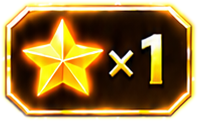
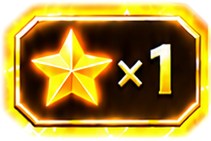
Nhiệm vụ tuần: ô sao sáng cắt rộng hơn, đủ quầng quanh khung
Claude-Session: https://claude.ai/code/session_01Nx6KtzZ6oiLptec8PbUBY6

diff --git a/src/lib/weekly-geo.ts b/src/lib/weekly-geo.ts
@@ -15,13 +15,13 @@ export const WEEK_GEO: Record<"p" | "g" | "d", WeekRow[]> = {
     {star: [86.33, 52.33], starW: 23.7, starH: 70.35, tube: [70.93, 84.3], fill: [40.36, 69.53], num: [29.69]},
   ],
   g: [
-    {star: [84.96, 50.0], starW: 24.72, starH: 75.16, digit: [49.94, 46.58, 14.91]},
-    {star: [84.96, 50.0], starW: 24.72, starH: 75.16, digit: [49.94, 46.27, 15.53]},
-    {star: [84.96, 50.0], starW: 24.72, starH: 78.06},
-    {star: [84.96, 50.0], starW: 24.72, starH: 78.57},
-    {star: [84.96, 50.0], starW: 24.72, starH: 78.57},
-    {star: [84.96, 50.0], starW: 24.72, starH: 79.08},
-    {star: [84.96, 50.0], starW: 24.72, starH: 74.69},
+    {star: [84.71, 50.31], starW: 26.34, starH: 75.16, digit: [49.94, 46.58, 14.91]},
+    {star: [84.71, 50.31], starW: 26.34, starH: 75.16, digit: [49.94, 46.27, 15.53]},
+    {star: [84.71, 50.32], starW: 26.34, starH: 78.06},
+    {star: [84.71, 50.32], starW: 26.34, starH: 78.57},
+    {star: [84.71, 50.32], starW: 26.34, starH: 78.57},
+    {star: [84.71, 50.33], starW: 26.34, starH: 79.08},
+    {star: [84.71, 50.31], starW: 26.34, starH: 74.69},
   ],
   d: [
     {star: [86.42, 51.89], starW: 23.54, starH: 76.1, digit: [50.78, 45.6, 15.72]},

diff --git a/src/lib/updates.ts b/src/lib/updates.ts
@@ -905,6 +905,7 @@ export const PENDING_NOTES: string[] = [
   "Nhiệm vụ Ngày hiện 3 trạng thái: xanh dương khi đang làm, vàng khi đủ để nhận, xanh lá khi đã nhận. Bấm ô sao ở hàng vàng để nhận thưởng.",
   "Nhiệm vụ Tuần cũng có 3 trạng thái: tím khi đang làm, vàng khi đủ để nhận, xanh lá khi đã nhận. Nhiệm vụ xếp hạng (X3) nhận xong đếm lại, còn X2 rồi X1.",
   "Nhiệm vụ Tuần: Sử dụng 1 bảo vật và Thu thập 10 lá bài thưởng 1 sao, các nhiệm vụ còn lại 2 sao. Hàng vàng dùng ảnh mới, ống đúng cỡ và ô sao sáng không còn viền đen.",
+  "Ô sao sáng của nhiệm vụ Tuần có đủ quầng sáng quanh khung, hoà vào khung hàng.",
 ];
 
 function remarkOf(notes: string[]) {

diff --git a/TIEP-TUC.md b/TIEP-TUC.md
@@ -708,3 +708,4 @@ Chủ game trả lời (29/10), CHƯA LÀM gì, chờ "ok" và trả lời câu 
 - NHIỆM VỤ TUẦN 3 TRẠNG THÁI 05/11 (Sonnet 5.5 high, nhánh `ccr-4a6b9076-s9p3aq`, CHƯA áp `main`, chờ chủ game xem ảnh): chủ game gửi 8 ảnh + 1 ảnh canh ô sao (`8d74ff4d`, trang tím có ô sao ×2). Cắt nguyên hàng từ 3 trang: tím `806d0c73` (ống rỗng + viên số), vàng `f29e61a6`, xanh lá `ff633a98` → `public/ui/mission/w-p0..6`, `w-g0..6`, `w-d0..6` (900×196, tâm hàng đo bằng viền thẳng trái/phải như tab Ngày). Chỉ xoá: chữ số trong viên "0 / n" (trang tím) và chữ "3" của "(X3)" ở 2 hàng đầu (cả 3 trang; tô nền bằng mảnh nền bên phải ")" chỉnh màu); tên nhiệm vụ giữ nguyên trong ảnh. Ô sao ×2: `wk-star.webp` (ảnh `f23d561a`, nền trong), `wk-glow.webp` (ô sáng, ảnh `259fe00b`) đặt theo vị trí đo bằng so khớp mẫu trên `8d74ff4d`; phần đầy ống `wk-fill.webp` cắt từ ảnh ống dài `58256899` (lõi tím), `border-image` 3 phần. Toạ độ % khung từng hàng ở `src/lib/weekly-geo.ts`. `WeeklyCard` (missions.tsx): tím (ống + "n / mục tiêu" Roboto Condensed 4,05cqw + ô sao thường), vàng (nút ô sáng, bấm nhận: coin + done + Burst + "+2★"), xanh lá; chữ số "(Xn)" code vẽ đè (Roboto Condensed, cỡ theo chữ "3" gốc). Luật hiển thị chủ game chốt: nhận xong hiện xanh lá 1,3 giây rồi về tím với X2 → X1, tiến độ về 0; nhận lần 3 xanh lá hẳn và ghi (X0). `daily-missions.ts` `useWeekly` (kho `clash-missions-w1` {start, done, claims}, tuần 7 ngày từ lúc bắt đầu, `claim`), `mission-list.ts` WEEKLY_LIST mới 7 hàng + `repeat`. CHỈ ĐỌC + NHẬN; việc ghi tiến độ (trận xếp hạng, bảo vật, thu thập lá), reset tuần thật, bảng sau trận = Opus 5.5 high, CHƯA LÀM. Thử Chromium 412×915 (`/tmp/claude-0/s/t/wk.cjs`): tím 14/15, vàng, bấm nhận → xanh lá → về tím X2, toàn xanh lá X0. Còn lại: vết tô nền của chữ "3" ở trang vàng còn thấy nhẹ khi phóng to.
 - CANH Ô SAO SÁNG HÀNG VÀNG TUẦN 05/11 (Sonnet 5.5 high, nhánh `ccr-4a6b9076-s9p3aq`, CHƯA áp `main`): so khớp ô sáng với ảnh chủ game đặt sẵn (`16657b70`): tâm x≈704 (trang), lệch dọc 0–2,5 px theo hàng, rộng ≈216 px; `weekly-geo.ts` hàng `g` (starW = rộng ô sáng, hệ số 1.0 trong `WeeklyCard`). Chụp 412×915 khớp khung.
 - TUẦN: ẢNH MỚI + Ô SAO SÁNG HẾT VIỀN ĐEN + 1 SAO 05/11 (chủ game gửi 2 ảnh và "Ok duyệt"; Sonnet 5.5 high, nhánh `ccr-4a6b9076-s9p3aq`, CHƯA áp `main`): `5413e548` = trang vàng MỚI (ống đúng cỡ, không đè ô sao), `5eb7b31b` = ô sáng ×1…×7 đặt sẵn trên nền hàng vàng (không nền đen). Làm: `public/ui/mission/w-g0..6.webp` cắt lại từ trang mới (tâm hàng đo bằng viền trái x=35: 545,5 / 705,5 / 861,5 / 1015 / 1167 / 1318,5 / 1474; `XR` 24..825, `M` 24), xoá lại chữ "3" của (X3) (hộp g0 418..430 × 528..552, g1 418..430 × 687..712); `wk-glow1.webp` / `wk-glow2.webp` = ô sáng ×1 / ×2 cắt từ `5eb7b31b` kèm nền vàng quanh ô (mặt nạ bát giác + mép mờ 1,6 px, không còn quầng đen), tâm ô = tâm hàng, x 704,5, rộng 198 px trang; xoá `wk-glow.webp` cũ; `wk-star1.webp` = ô thường ×1 (từ `441c0418`, co về cỡ ô ×2) cho hàng tím. LUẬT: `w-relic1` (Sử dụng 1 bảo vật) và `w-cards10` (Thu thập 10 lá bài) thưởng 1 sao, 5 hàng còn lại 2 sao (`mission-list.ts`), ô sao và chữ "+n★" theo `row.stars`. Thử Chromium 412×915 (`/tmp/claude-0/s/t/wk.cjs`): tím và vàng khớp khung, ×1 / ×2 đúng hàng. Tập lệnh làm ảnh: scratchpad `/tmp/claude-0/s/w/gold3.py`, `geo.py`. BẢNG ẢNH ĐÃ NHẬN CHO TAB TUẦN (thư mục `/root/.claude/uploads/713e3384-…/`): `806d0c73` trang tím rỗng, `8002608e` ống tím ngắn, `58256899` ống tím dài, `f29e61a6` trang vàng CŨ (bỏ), `5413e548` trang vàng MỚI, `ff633a98` trang xanh lá, `259fe00b` ô sáng ×1–8 nền đen cỡ lớn (bỏ), `23e1ed97` ô sáng ×1–8 nền đen cỡ khớp (bỏ), `5eb7b31b` ô sáng ×1–7 trên hàng vàng (dùng), `441c0418` ô thường ×1–7, `f23d561a` ô thường ×2, `8d74ff4d` canh ô thường (trang tím), `16657b70` canh ô sáng ×1, `e3b7b5f0` trang vàng không ô sao. Còn lại: Opus 5.5 high (đếm trận thật, reset tuần thật, bảng sau trận), chờ "ok".
+- Ô SAO SÁNG TUẦN: QUẦNG ĐỦ HƠN 05/11 (chủ game: "quầng sáng của khung sao chưa đủ do bạn cắt sát quá"; Sonnet 5.5 high, nhánh `ccr-4a6b9076-s9p3aq`, CHƯA áp `main`): nguyên nhân = mặt nạ chỉ nở ~4,5 px quanh viền ô. Cắt lại `wk-glow1/2.webp` từ `5eb7b31b` (`/tmp/claude-0/s/w/gold4.py`): mặt nạ = bát giác nở theo khoảng cách (trên/dưới 11 px + mép mờ 6, phải 9, trái 9 + mép mờ 7: bên trái chỉ nở ít vì đầu mũi ống vàng nằm cách ô ~12 px, quầng rộng hơn sẽ đè ống), nền vàng quanh ô lấy nguyên từ ảnh chủ game; vùng cắt rộng 211×141 px trang (trước 198×121), tâm x 702,5, `starW` 26,34 (`weekly-geo.ts` hàng `g`). Chụp 412×915 và đặt cạnh ảnh 2: quầng hoà vào khung hàng, không thấy đường cắt. Chưa có ảnh/video mới ngoài `5413e548`, `5eb7b31b`.
